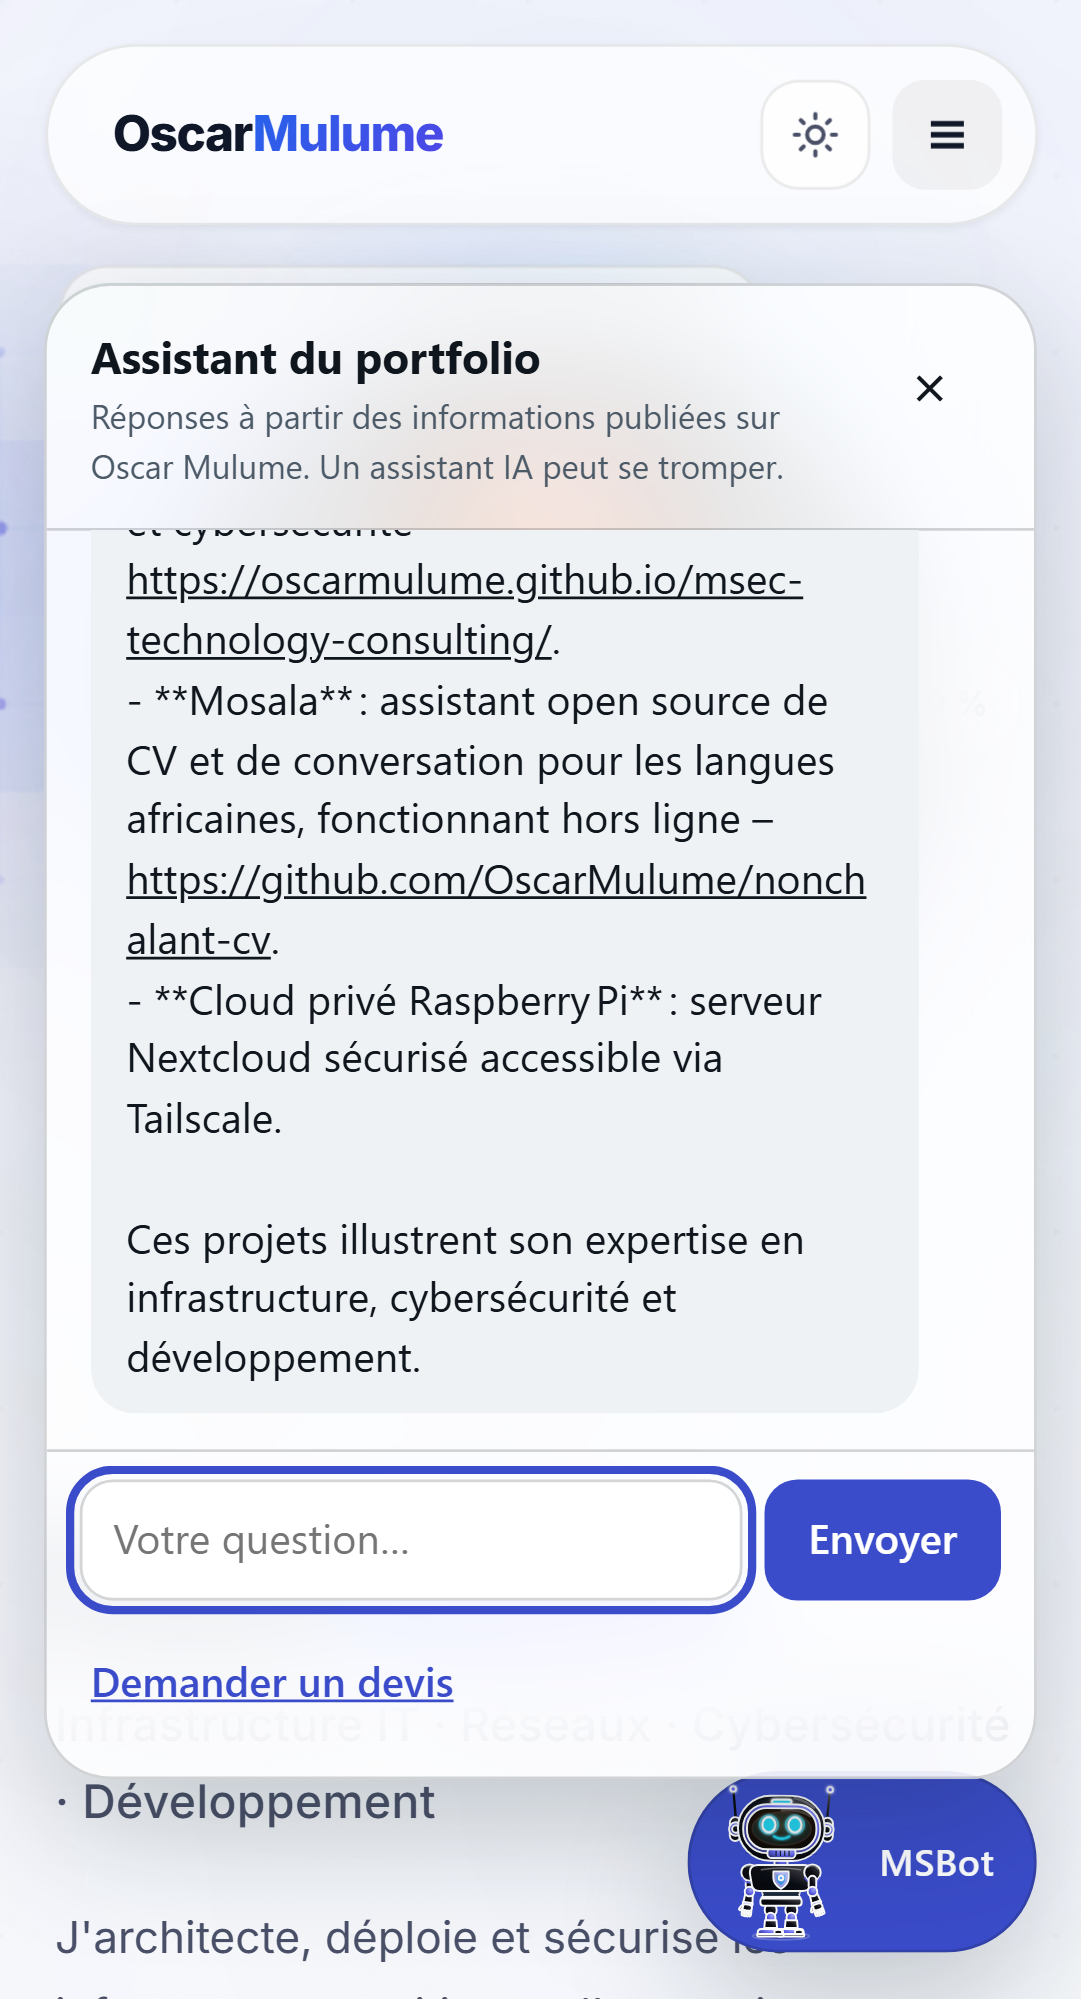
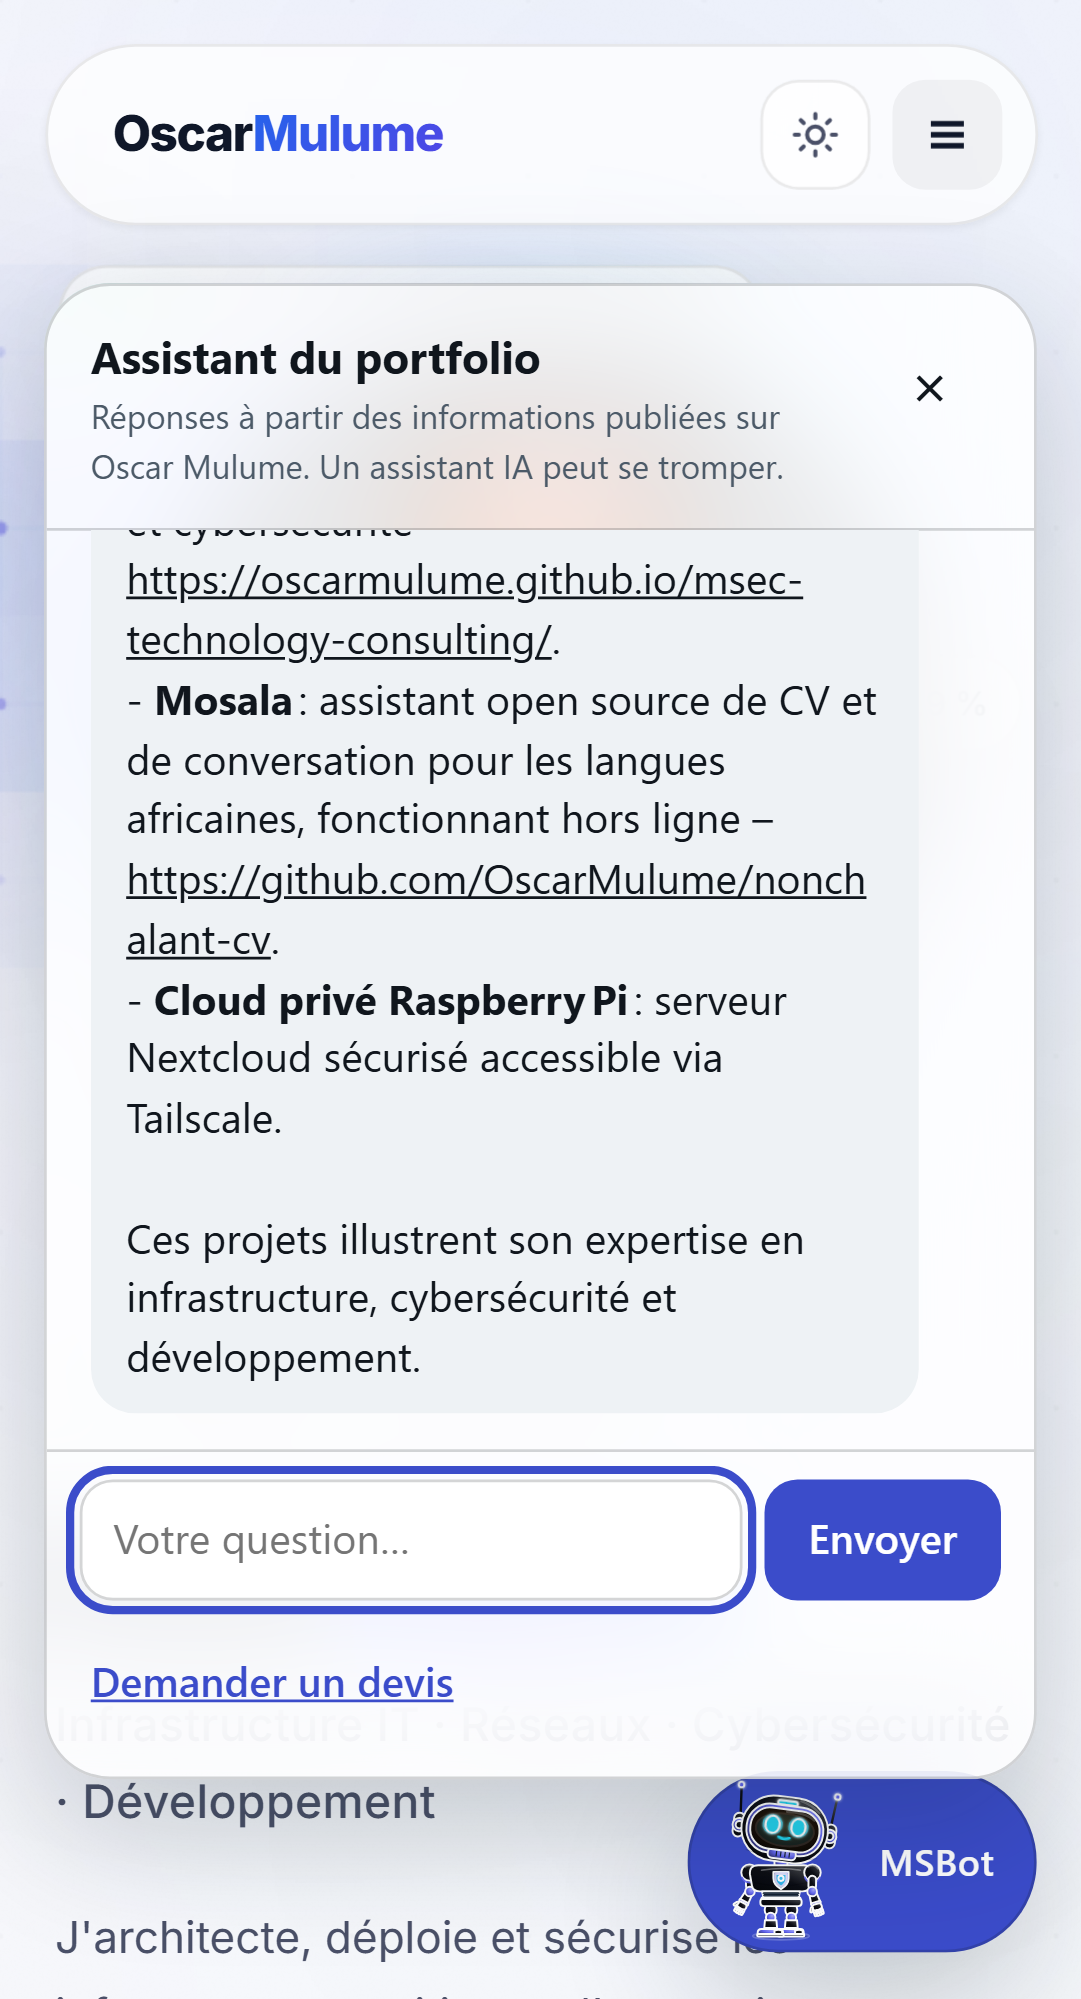
msbot-i5: preuve en ligne (6 captures, 0 erreur console, vraies reponses)

diff --git a/docs/RAPPORT-msbot-integration.md b/docs/RAPPORT-msbot-integration.md
@@ -10,7 +10,7 @@ Date : 06/11/2026. Dépôt : `msec-technology-consulting`. Référence : `docs/p
 | I2 — vraies réponses | `src/assistant/msec-assistant.src.js` | `npm test` vert | idem (même commit) | `msbot-i2` | oui |
 | I3 — site M-SEC | composants Astro (`data-msbot`, `data-msbot-section`), observateur de sections | `npm test` vert | oui | `msbot-i3` | oui |
 | I4 — portfolio | profil portfolio (#0C0D14 / #6366F1 / #22D3EE), réactions mailto:/LinkedIn déduites des liens | `npm test` vert | oui | `msbot-i4` | oui |
-| I5 — preuve visuelle | à faire | — | — | — | — |
+| I5 — preuve visuelle | `scripts/capture-msbot.mjs`, `docs/captures/` | 6/6 : HTTP 200, script chargé, 0 erreur console, vraie réponse | oui | `msbot-i5` | oui |
 | I6 — POS / Malaika | à faire | — | — | — | — |
 
 ## I1 — ce qui est fait
@@ -36,6 +36,27 @@ Date : 06/11/2026. Dépôt : `msec-technology-consulting`. Référence : `docs/p
 - Les liens gardent leur comportement normal (aucun `preventDefault` dans le gestionnaire de clic, vérifié par test). Les réactions de champ du formulaire existaient déjà (M0-M5).
 - Sections : contact, produits, services déclenchent une réaction une seule fois.
 - Thème M-SEC : #0B2A4A / #E8A33D / #FFB547 / « MC ».
+
+## I5 — preuve en ligne (08/11/2026)
+
+Script rejouable : `node scripts/capture-msbot.mjs` (Playwright, sites publics, aucune clé). Résultat : `docs/captures/resultats.json`.
+
+| Site | Appareil | HTTP | Script MSBot | Erreurs console | Vraie réponse |
+|---|---|---|---|---|---|
+| M-SEC | ordinateur 1280 | 200 | oui | 0 | oui |
+| M-SEC | iPhone 13 | 200 | oui | 0 | oui |
+| M-SEC | Pixel 5 | 200 | oui | 0 | oui |
+| Portfolio | ordinateur 1280 | 200 | oui | 0 | oui |
+| Portfolio | iPhone 13 | 200 | oui | 0 | oui |
+| Portfolio | Pixel 5 | 200 | oui | 0 | oui |
+
+Captures : `docs/captures/<site>-<appareil>-1-arrivee.png` (MSBot en place) et `-2-reponse.png` (fenêtre ouverte, réponse à « Quels services propose M-SEC ? » / « Quels sont les principaux projets d'Oscar ? »).
+
+Défauts réels trouvés et corrigés grâce aux captures :
+1. La bulle d'accueil recouvrait le lanceur et interceptait les clics (impossible d'ouvrir MSBot tant qu'elle était affichée) : elle se place maintenant au-dessus du lanceur réel et laisse passer les clics.
+2. La bulle restait par-dessus la fenêtre ouverte et masquait « Envoyer » sur mobile : supprimée à l'ouverture.
+3. Le gras Markdown s'affichait en `**` bruts : rendu par éléments DOM.
+4. Un 429/indisponibilité passagère a donné une fois le message de secours (Pixel 5 portfolio) : le script refait un essai ; non reproduit ensuite.
 
 ## Écarts assumés
 
